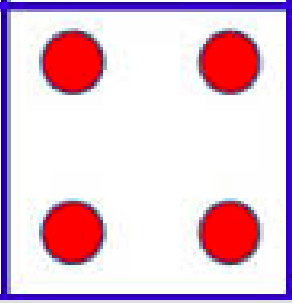
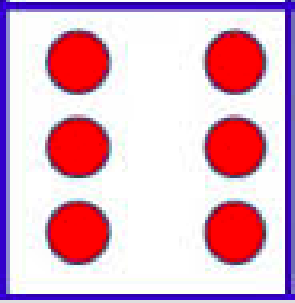
Snakes and Ladders with the snakes or the ladders

diff --git a/7/04-javascript-todo/zhang_dillon/snakesAndLadders.js b/7/04-javascript-todo/zhang_dillon/snakesAndLadders.js
@@ -12,6 +12,8 @@ var players = [player1, player2];
 var finalLocations = [finalLocation1, finalLocation2];
 var currentLocations = [currentLocation1, currentLocation2];
 
+var myStatus = document.getElementById("status");
+
 var board = document.getElementById("board").children[0].children;
 
 var findRow = function(num) {
@@ -27,3 +29,46 @@ var movePiece = function() {
     currentLocations[turn]++;
     board[findRow(currentLocations[turn])].children[findColumn(currentLocations[turn])].appendChild(players[turn]);
 }
+
+var moveIt = function() {
+    if (currentLocations[turn] < finalLocations[turn] || currentLocations[turn] == 100) {
+	movePiece();
+    } else {
+	clearInterval(myInterval);
+	turn = (turn + 1) % 2;
+	if (currentLocations[turn] == 100) {
+	    myStatus.innerHTML = "Player " + (turn + 1) + "Wins!"
+	} else {
+	    myStatus.innerHTML = "Player " + (turn + 1) + "'s Turn"
+	}
+    }
+}
+    
+var rollDie = function(id) {
+    var imager = document.getElementById(id);
+    var face = Math.ceil(Math.random() * 6)
+    imager.src = "./img/" + face + ".png"
+    return face;
+}
+
+var rollTime = 1;
+var rollValue = 0;
+var rollDice = function() {
+    if (rollTime > 0 ){
+	rollValue = rollDie("leftImg") + rollDie("rightImg");
+	rollTime--;
+    } else {
+	clearInterval(myInterval);
+	finalLocations[turn] += rollValue;
+	myStatus.innerHTML = "Moving the your piece"
+	myInterval = setInterval(moveIt, 100);
+    }
+}
+
+var myInterval;
+var rolling = document.getElementById("roll");
+rolling.addEventListener('click', function(){
+    myStatus.innerHTML = "Rolling the dice"
+    rollTime = Math.floor(Math.random() * 10) + 5
+    myInterval = setInterval(rollDice, 50);
+});
